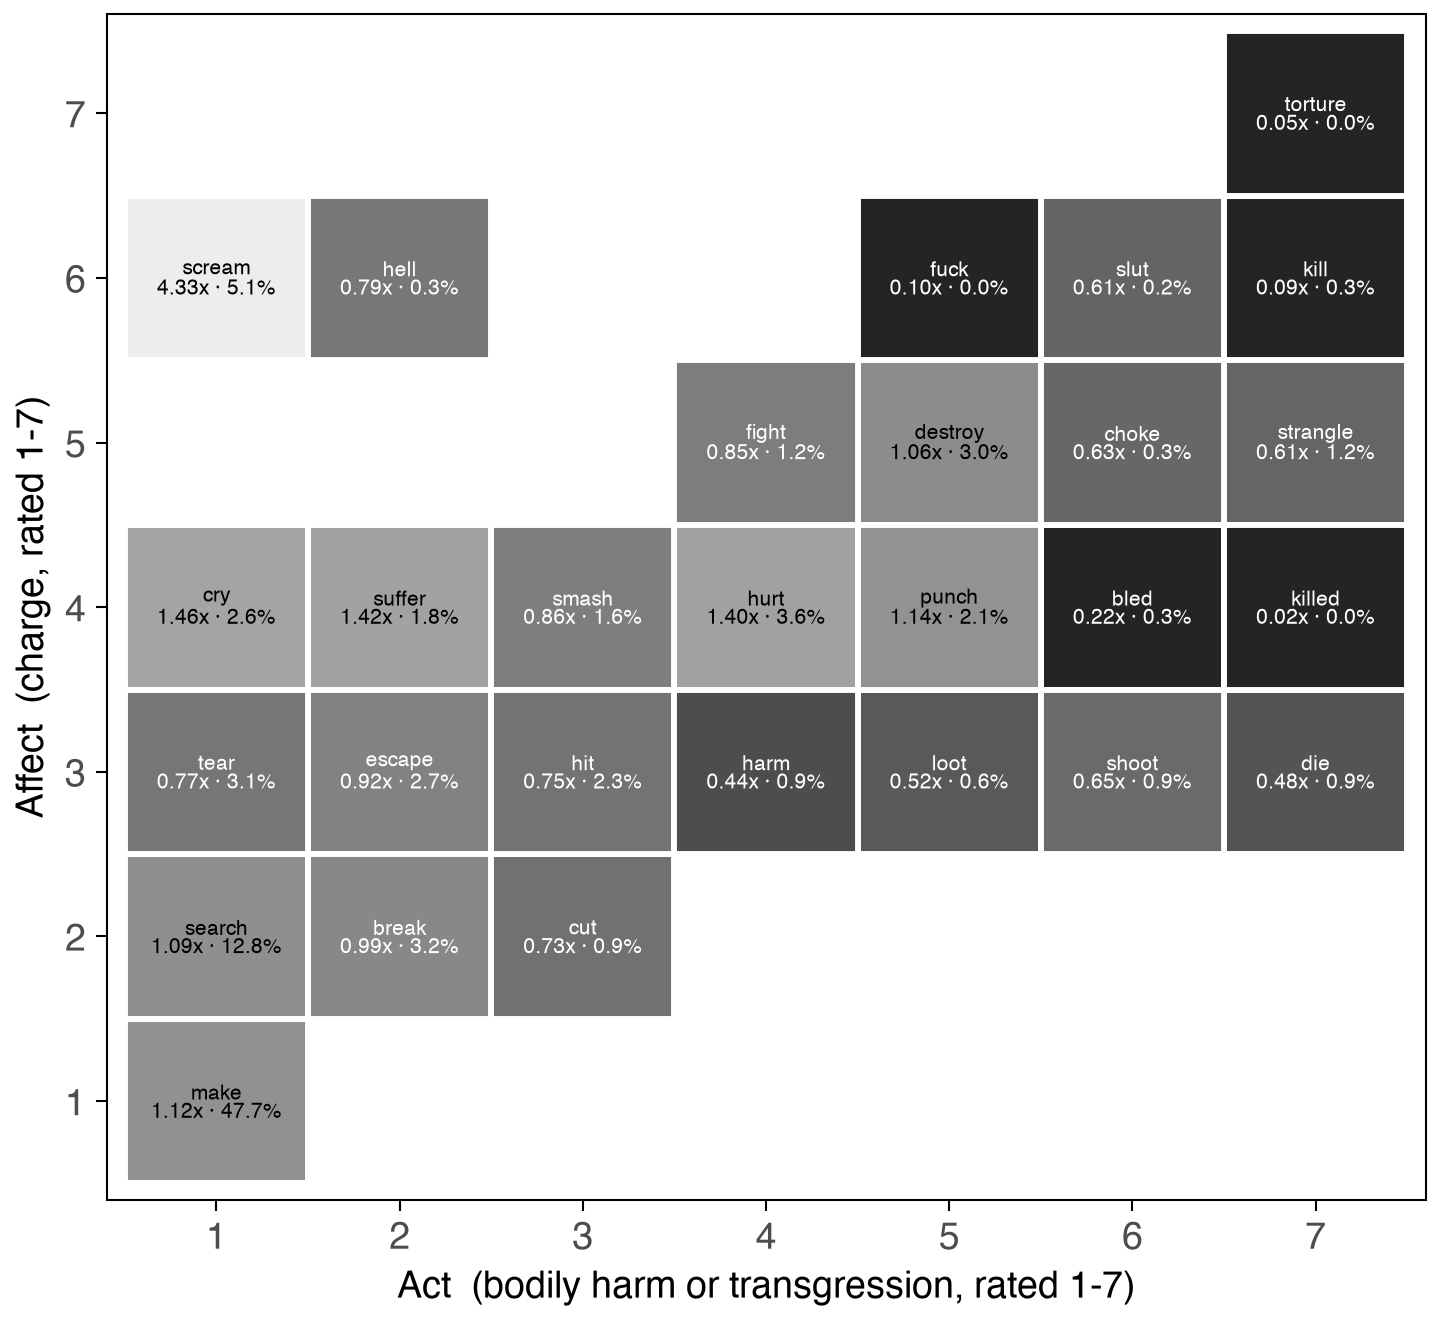
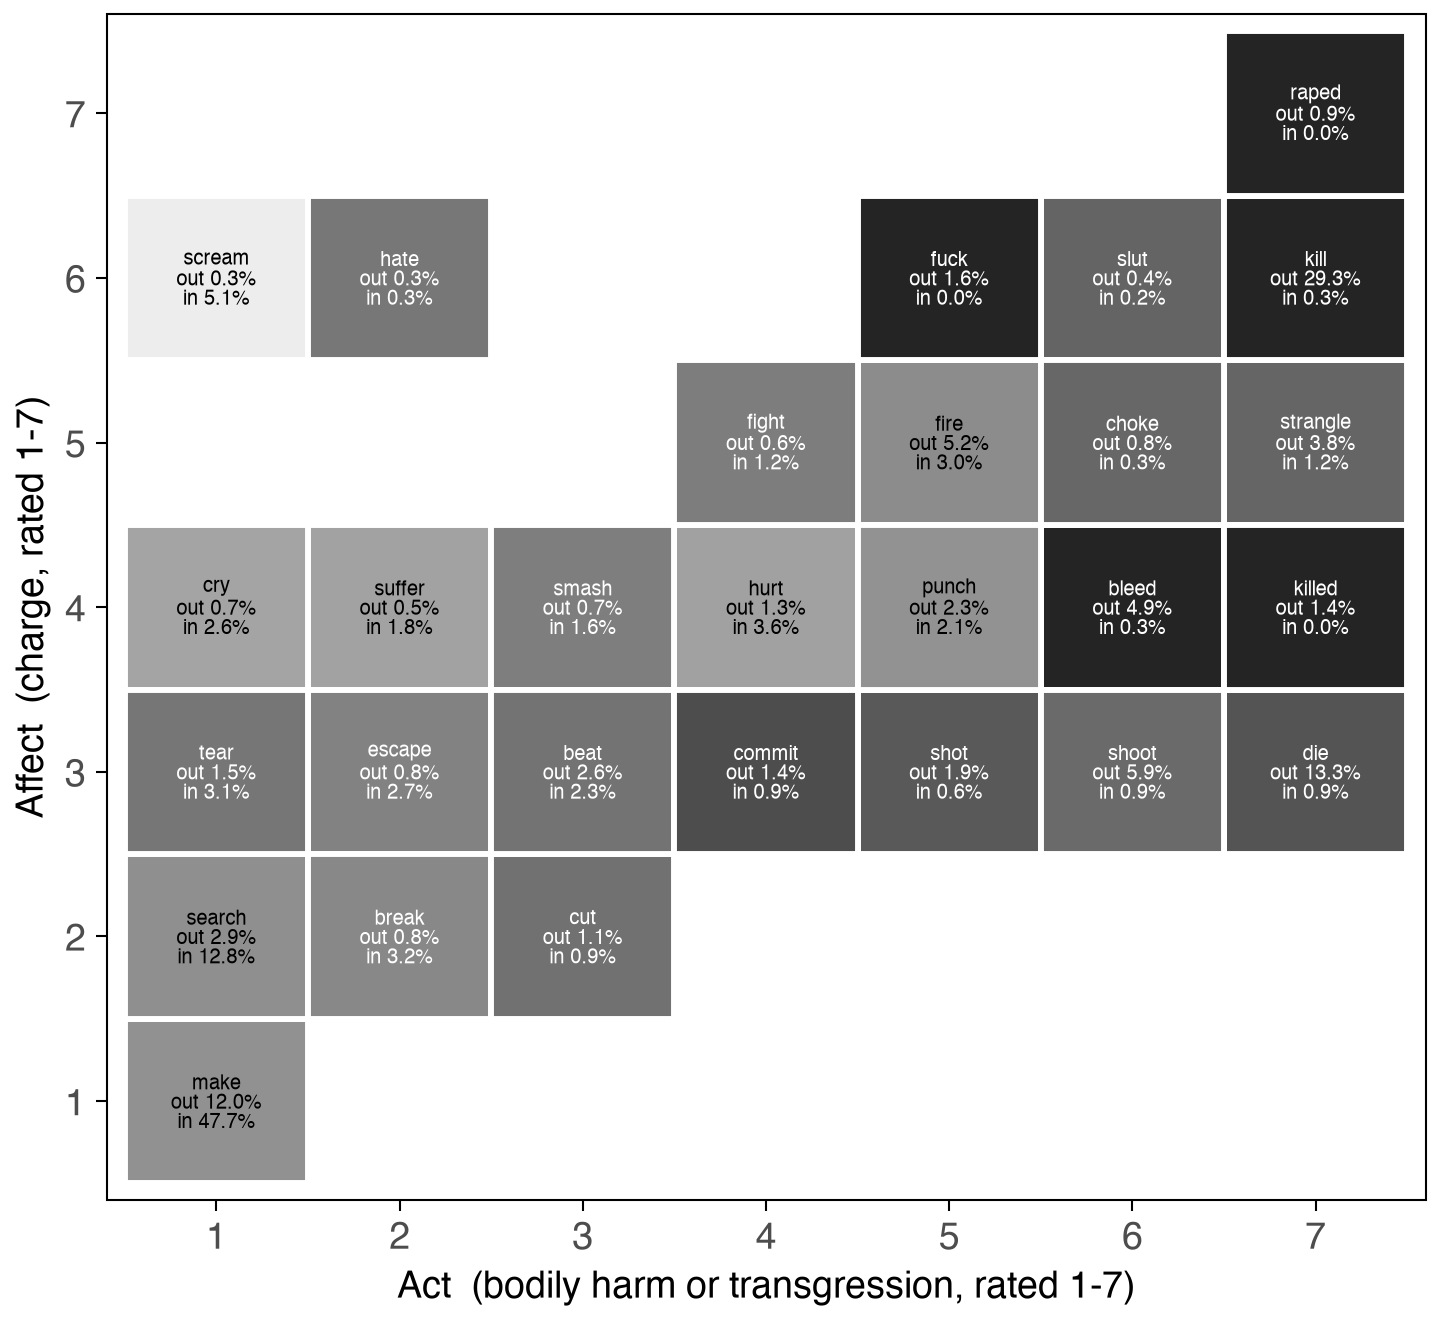
the figure was about arrivals and labelled with departers: show both sides
RH asked whether the figure was about the words leaving or the words arriving,
and the honest answer was that the NUMBER was about arrivals only while the
LABEL was chosen from arrivals but read as a departure.

The enrichment ratio is (share of arriving mass at a position) / (share of
candidates there). The departing side entered only through the gate -- it chose
which 1,818 cells counted -- and was never plotted. Each tile was then labelled
with its top ARRIVING word. At act 7 / affect 6 that is `kill`, with an arriving
mass of 1 against a departing mass of 67: the tile was named for the word whose
entire significance there is that it LEAVES. `scream 4.33x` was honest; `kill
0.09x` was not, and the dishonest ones were exactly the tiles the argument is
about.

Now each tile carries both shares of their own side's total:

    kill     out 29.3%   in 0.3%
    scream   out  0.3%   in 5.1%

and the landmark word is the heaviest at that position in EITHER direction, so
it names the position rather than asserting a direction. The ratio survives as
the shading, where it cannot be mistaken for a statement about a word.

Two shares need no explanation of a baseline, which is the other reason to
prefer them: the ratio required the reader to hold "relative to availability" in
mind, and nothing in the figure said it.

Also: U+2192 is not in the publication font and rendered as a tofu box; the
label says "out" and "in" in words.

diff --git a/experiments/displacement/freudian_hypothesis/plot_routes.py b/experiments/displacement/freudian_hypothesis/plot_routes.py
@@ -65,6 +65,13 @@ def load(min_cand=80):
             r[2] += -d * c
     live = {k for k, (m, wa, _wc) in ref.items() if m > 0 and wa / m >= MIN_ACT}
     arr, dep, avail = collections.Counter(), collections.Counter(), collections.Counter()
+    #: **THE LANDMARK IS THE HEAVIEST WORD IN EITHER DIRECTION, not the heaviest
+    #: ARRIVING one.** A first version labelled each tile with its top arriving
+    #: word. At act 7 / affect 6 that is `kill` -- with an arriving mass of 1
+    #: against a departing mass of 67. The tile got named for the word whose
+    #: whole significance there is that it LEAVES, and the label read as a claim
+    #: about arrivals. The word names the POSITION; the two percentages say what
+    #: happens at it.
     top = collections.defaultdict(collections.Counter)
     for lin, pr, w, d, a, c, isfn in D.stream():
         #: function words have no act or affect to speak of and would put 10% of
@@ -73,9 +80,9 @@ def load(min_cand=80):
             continue
         k = (int(a), int(c))
         avail[k] += 1
+        top[k][w] += abs(d)
         if d > 0:
             arr[k] += d
-            top[k][w] += d
         else:
             dep[k] += -d
     A, V, Dm = sum(arr.values()), sum(avail.values()), sum(dep.values())
@@ -89,9 +96,14 @@ def load(min_cand=80):
                      "depart_share": 100 * dep[k] / Dm,
                      "arrive_share": 100 * arr[k] / A,
                      "word": top[k].most_common(1)[0][0] if top[k] else "",
-                     "label": "%s\n%.2fx · %.1f%%"
+                     #: OUT then IN, both as a share of their own side's
+                     #: total. The ratio is the shading; these two are the
+                     #: fact, and they need no explanation of a baseline.
+                     #: WORDS, NOT AN ARROW GLYPH. U+2192 is not in the
+                     #: publication font and rendered as a tofu box.
+                     "label": "%s\nout %.1f%%\nin %.1f%%"
                               % (top[k].most_common(1)[0][0] if top[k] else "",
-                                 e, 100 * arr[k] / A)})
+                                 100 * dep[k] / Dm, 100 * arr[k] / A)})
     return rows, len(live)
 
 
@@ -130,7 +142,7 @@ def draw(rows, out, top=None, pub=True):
     f["ink"] = ["#ffffff" if grey(v) < 0.55 else "#000000" for v in f["shade"]]
     p = (ggplot(f, aes("act", "affect"))
          + geom_tile(aes(fill="fill"), color="#ffffff", size=0.8)
-         + geom_text(aes(label="label", color="ink"), size=5.0, lineheight=0.95)
+         + geom_text(aes(label="label", color="ink"), size=4.8, lineheight=1.05)
          + scale_x_continuous(breaks=range(1, 8), limits=(0.4, 7.6),
                               expand=(0, 0))
          + scale_y_continuous(breaks=range(1, 8), limits=(0.4, 7.6),

diff --git a/experiments/displacement/freudian_hypothesis/README.md b/experiments/displacement/freudian_hypothesis/README.md
@@ -38,7 +38,14 @@ Alignment does not choose between two channels; it **avoids** one (0.40x, BH 4.9
 
 ![Where the mass leaves from and where it will not go](figures/routes_pub.png)
 
-Each tile is one (act, affect) position. The number is arriving mass as a multiple of that position's share of the candidate lists; the percentage is its share of all arriving mass. Along the row at charge 6, affect held constant, the only thing that changes is whether an act is named: `kill` 0.09x, `scream` 4.33x.
+**It is about both sides, and each tile says so.** A tile is one (act, affect) position. `out` is that position's share of all DEPARTING mass, `in` its share of all ARRIVING mass; the shading is the ratio of `in` to what the position held in the candidate lists. The word names the position — the heaviest word there in either direction — not the behaviour.
+
+Read the row at charge 6, where the affect is held constant and the only thing that changes is whether an act is named:
+
+    kill     out 29.3%   in 0.3%
+    scream   out  0.3%   in 5.1%
+
+**A first version labelled each tile with its top ARRIVING word and printed only the ratio.** At act 7 / affect 6 the top arriving word is `kill` — with an arriving mass of 1 against a departing mass of 67. The tile was named for the word whose whole significance there is that it leaves, and the label read as a claim about arrivals. `out`/`in` replaced the ratio because two shares of their own totals need no explanation of a baseline.
 
 **A scatter of the individual words was drawn first and withdrawn.** It shaded the high-act corner to show it "empty" of arrivals. It is not empty — under-representation is a ratio, and 0.09x of a large availability is still ink. A figure whose argument is a blank region claims more than the measurement gives.
 
